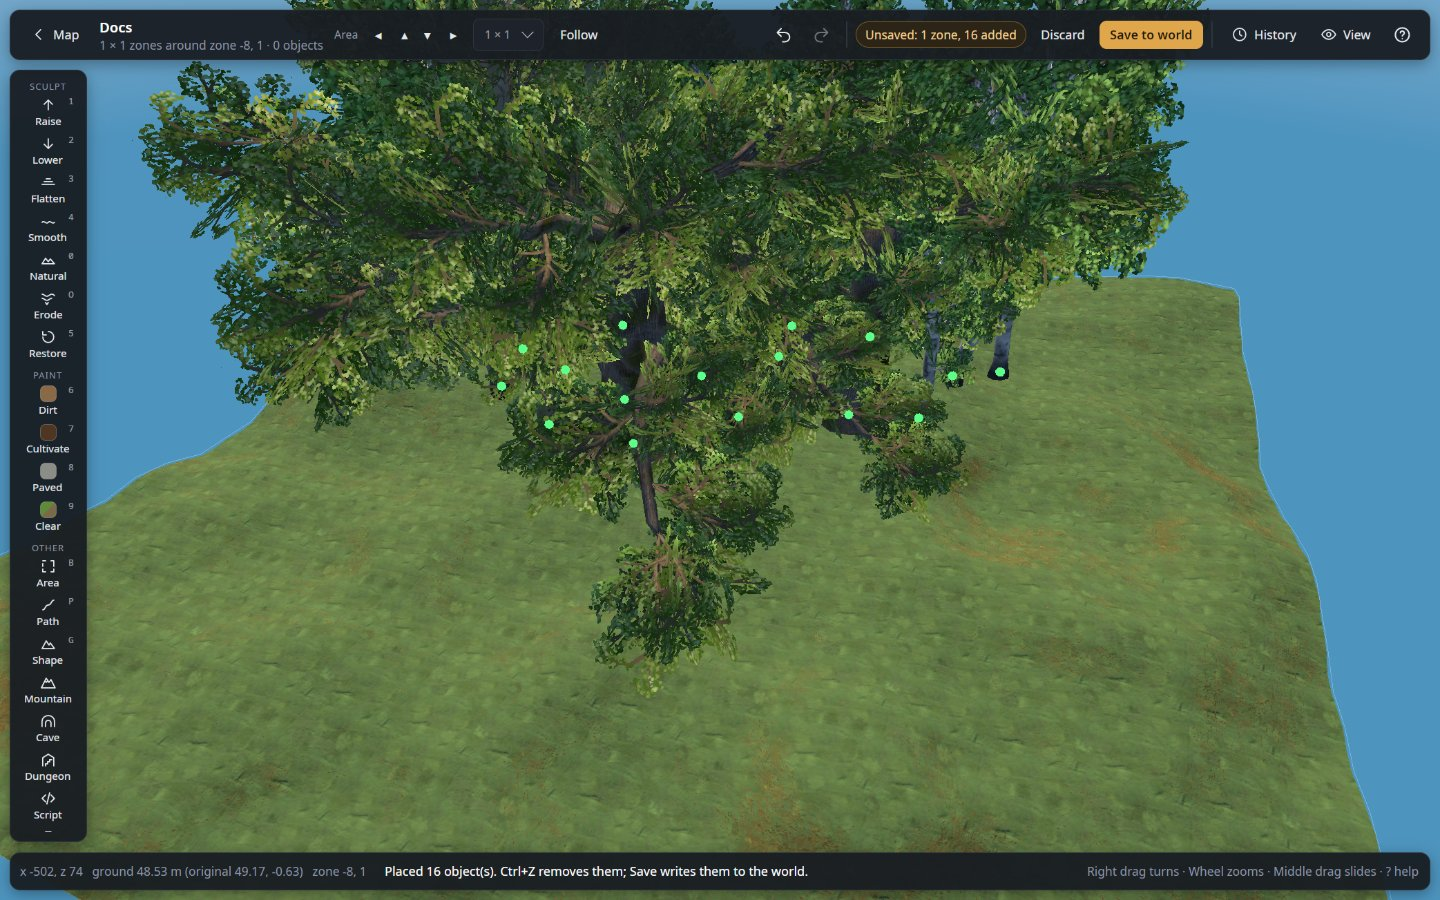
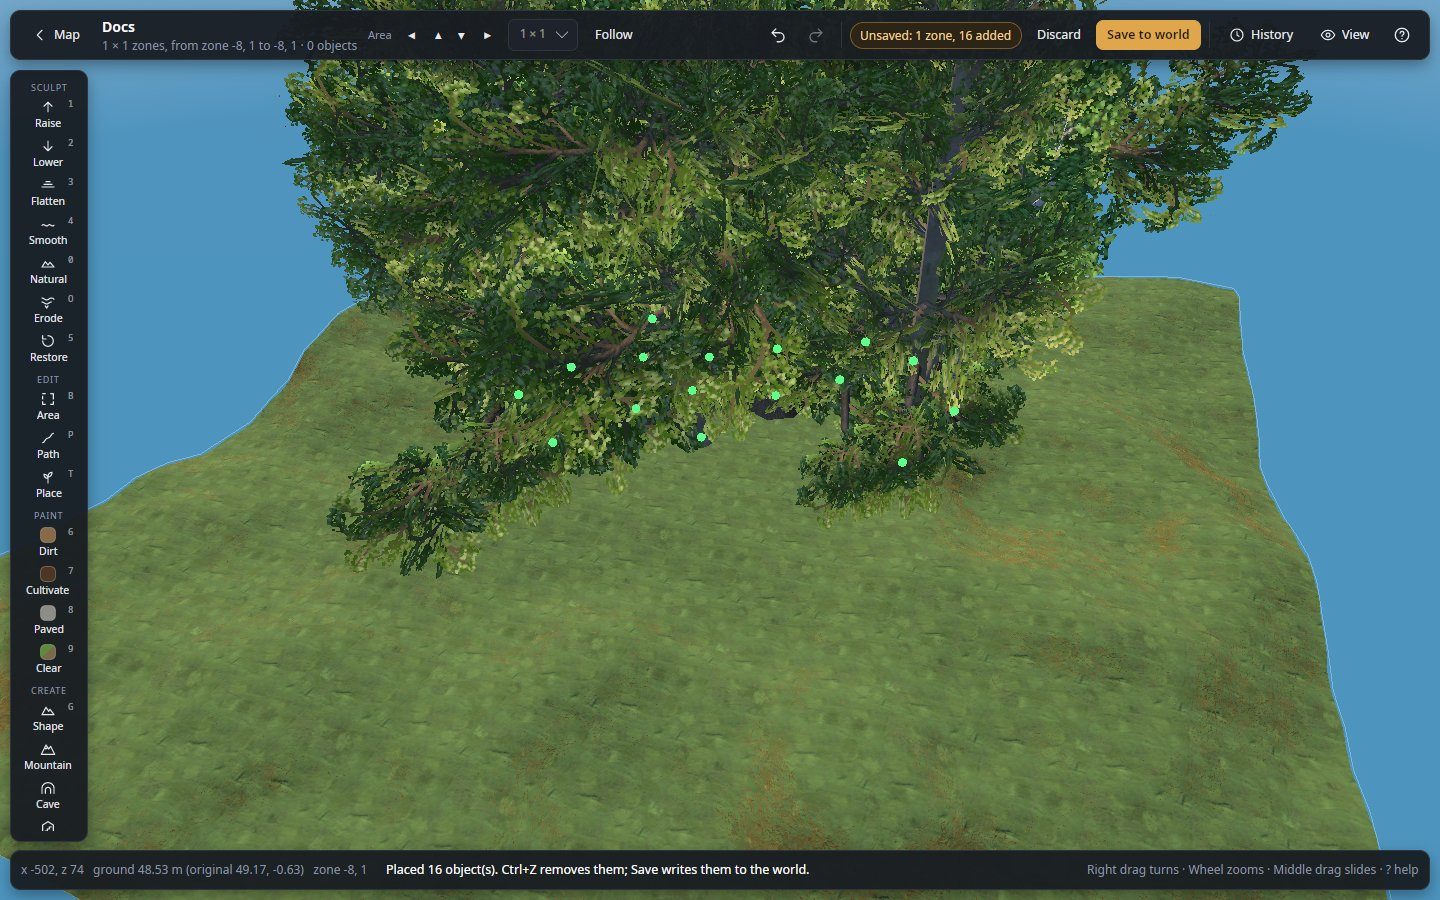
Shrink the unsaved dot to 5 pixels at 1080p, with a soft edge (v1.36.1) (#162)
It was 1% of the view's height across (11 pixels at 1080p, 21 at 4K) and
covered small objects; the soft edge keeps the smaller dot round.

Changed region(s): [[0.0312, 0.0, 0.9688, 0.7778], [0.0, 0.0933, 1.0, 0.9956]]

diff --git a/Desktop/GlView.cs b/Desktop/GlView.cs
@@ -3677,8 +3677,8 @@ public sealed class GlView : OpenGlControlBase
     }
 
     /// <summary>
-    /// The new objects' green dots (<c>NewMarkers</c>), about 10 pixels across at any distance: one point each, kept
-    /// on the graphics card until they change.
+    /// The new objects' green dots (<c>NewMarkers</c>), a few pixels across at any distance (5 at 1080p, 9 at 4K):
+    /// one point each, kept on the graphics card until they change.
     /// </summary>
     /// <param name="s">The scene.</param>
     /// <param name="vp">The camera's view and projection.</param>
@@ -3716,13 +3716,17 @@ public sealed class GlView : OpenGlControlBase
             _gl.Enable(EnableCap.ProgramPointSize);
         }
         _gl.Disable(EnableCap.DepthTest);
+        // The dot's soft edge blends over what is under it.
+        _gl.Enable(EnableCap.Blend);
+        _gl.BlendFunc(BlendingFactor.SrcAlpha, BlendingFactor.OneMinusSrcAlpha);
         _gl.UseProgram(_markProg);
         _gl.UniformMatrix4(_gl.GetUniformLocation(_markProg, "uViewProj"), 1, false, (float*)&vp);
         _gl.Uniform4(_gl.GetUniformLocation(_markProg, "uColor"), 0x5d / 255f, 1, 0x8a / 255f, 1);
-        // As the discs they replace: 1.16% of the distance across, under the 60° field of view.
-        _gl.Uniform1(_gl.GetUniformLocation(_markProg, "uSize"), MathF.Max(3, 0.0116f / (2 * MathF.Tan(MathF.PI / 6)) * height));
+        // A small mark, not a blob: 0.43% of the height (5 pixels at 1080p, 9 at 4K), never under 3.
+        _gl.Uniform1(_gl.GetUniformLocation(_markProg, "uSize"), MathF.Max(3, 0.0043f * height));
         _gl.BindVertexArray(_markVao);
         _gl.DrawArrays(PrimitiveType.Points, 0, (uint)_markCount);
+        _gl.Disable(EnableCap.Blend);
         _gl.Enable(EnableCap.DepthTest);
     }
 

diff --git a/Desktop/Shaders.cs b/Desktop/Shaders.cs
@@ -118,15 +118,21 @@ public static class Shaders
 		void main() { gl_Position = uViewProj * vec4(aPos, 1.0); gl_PointSize = uSize; }
 		""";
 
-    /// <summary>The markers' fragment shader: a round dot of one colour.</summary>
+    /// <summary>
+    /// The markers' fragment shader: a round dot of one colour, its edge faded over about a pixel so a
+    /// small dot stays round rather than jagged.
+    /// </summary>
     public const string MarkFs = """
 		uniform vec4 uColor;
 		out vec4 frag;
 		void main()
 		{
 			vec2 d = gl_PointCoord * 2.0 - 1.0;
-			if (dot(d, d) > 1.0) discard;
-			frag = uColor;
+			float r = length(d);
+			float w = fwidth(r);
+			float a = 1.0 - smoothstep(1.0 - w, 1.0, r);
+			if (a <= 0.0) discard;
+			frag = vec4(uColor.rgb, uColor.a * a);
 		}
 		""";
 

diff --git a/CHANGELOG.md b/CHANGELOG.md
@@ -4,6 +4,12 @@ All notable changes to the Valheim world editor and its WorldEditorBridge plugin
 version number. Newest first. Changes to the plugin are under **WorldEditorBridge** in each version;
 the plugin is unchanged in versions without that part.
 
+## v1.37.1 — unreleased
+
+### Changed
+- **The green dot on each unsaved object is much smaller.** It was about 1% of the view's height across (11 pixels at
+  1080p, 21 at 4K) and covered small objects; it is now 5 pixels at 1080p, 9 at 4K, with a soft edge so it stays round.
+
 ## v1.37.0 — 2026-10-14
 
 ### Added
